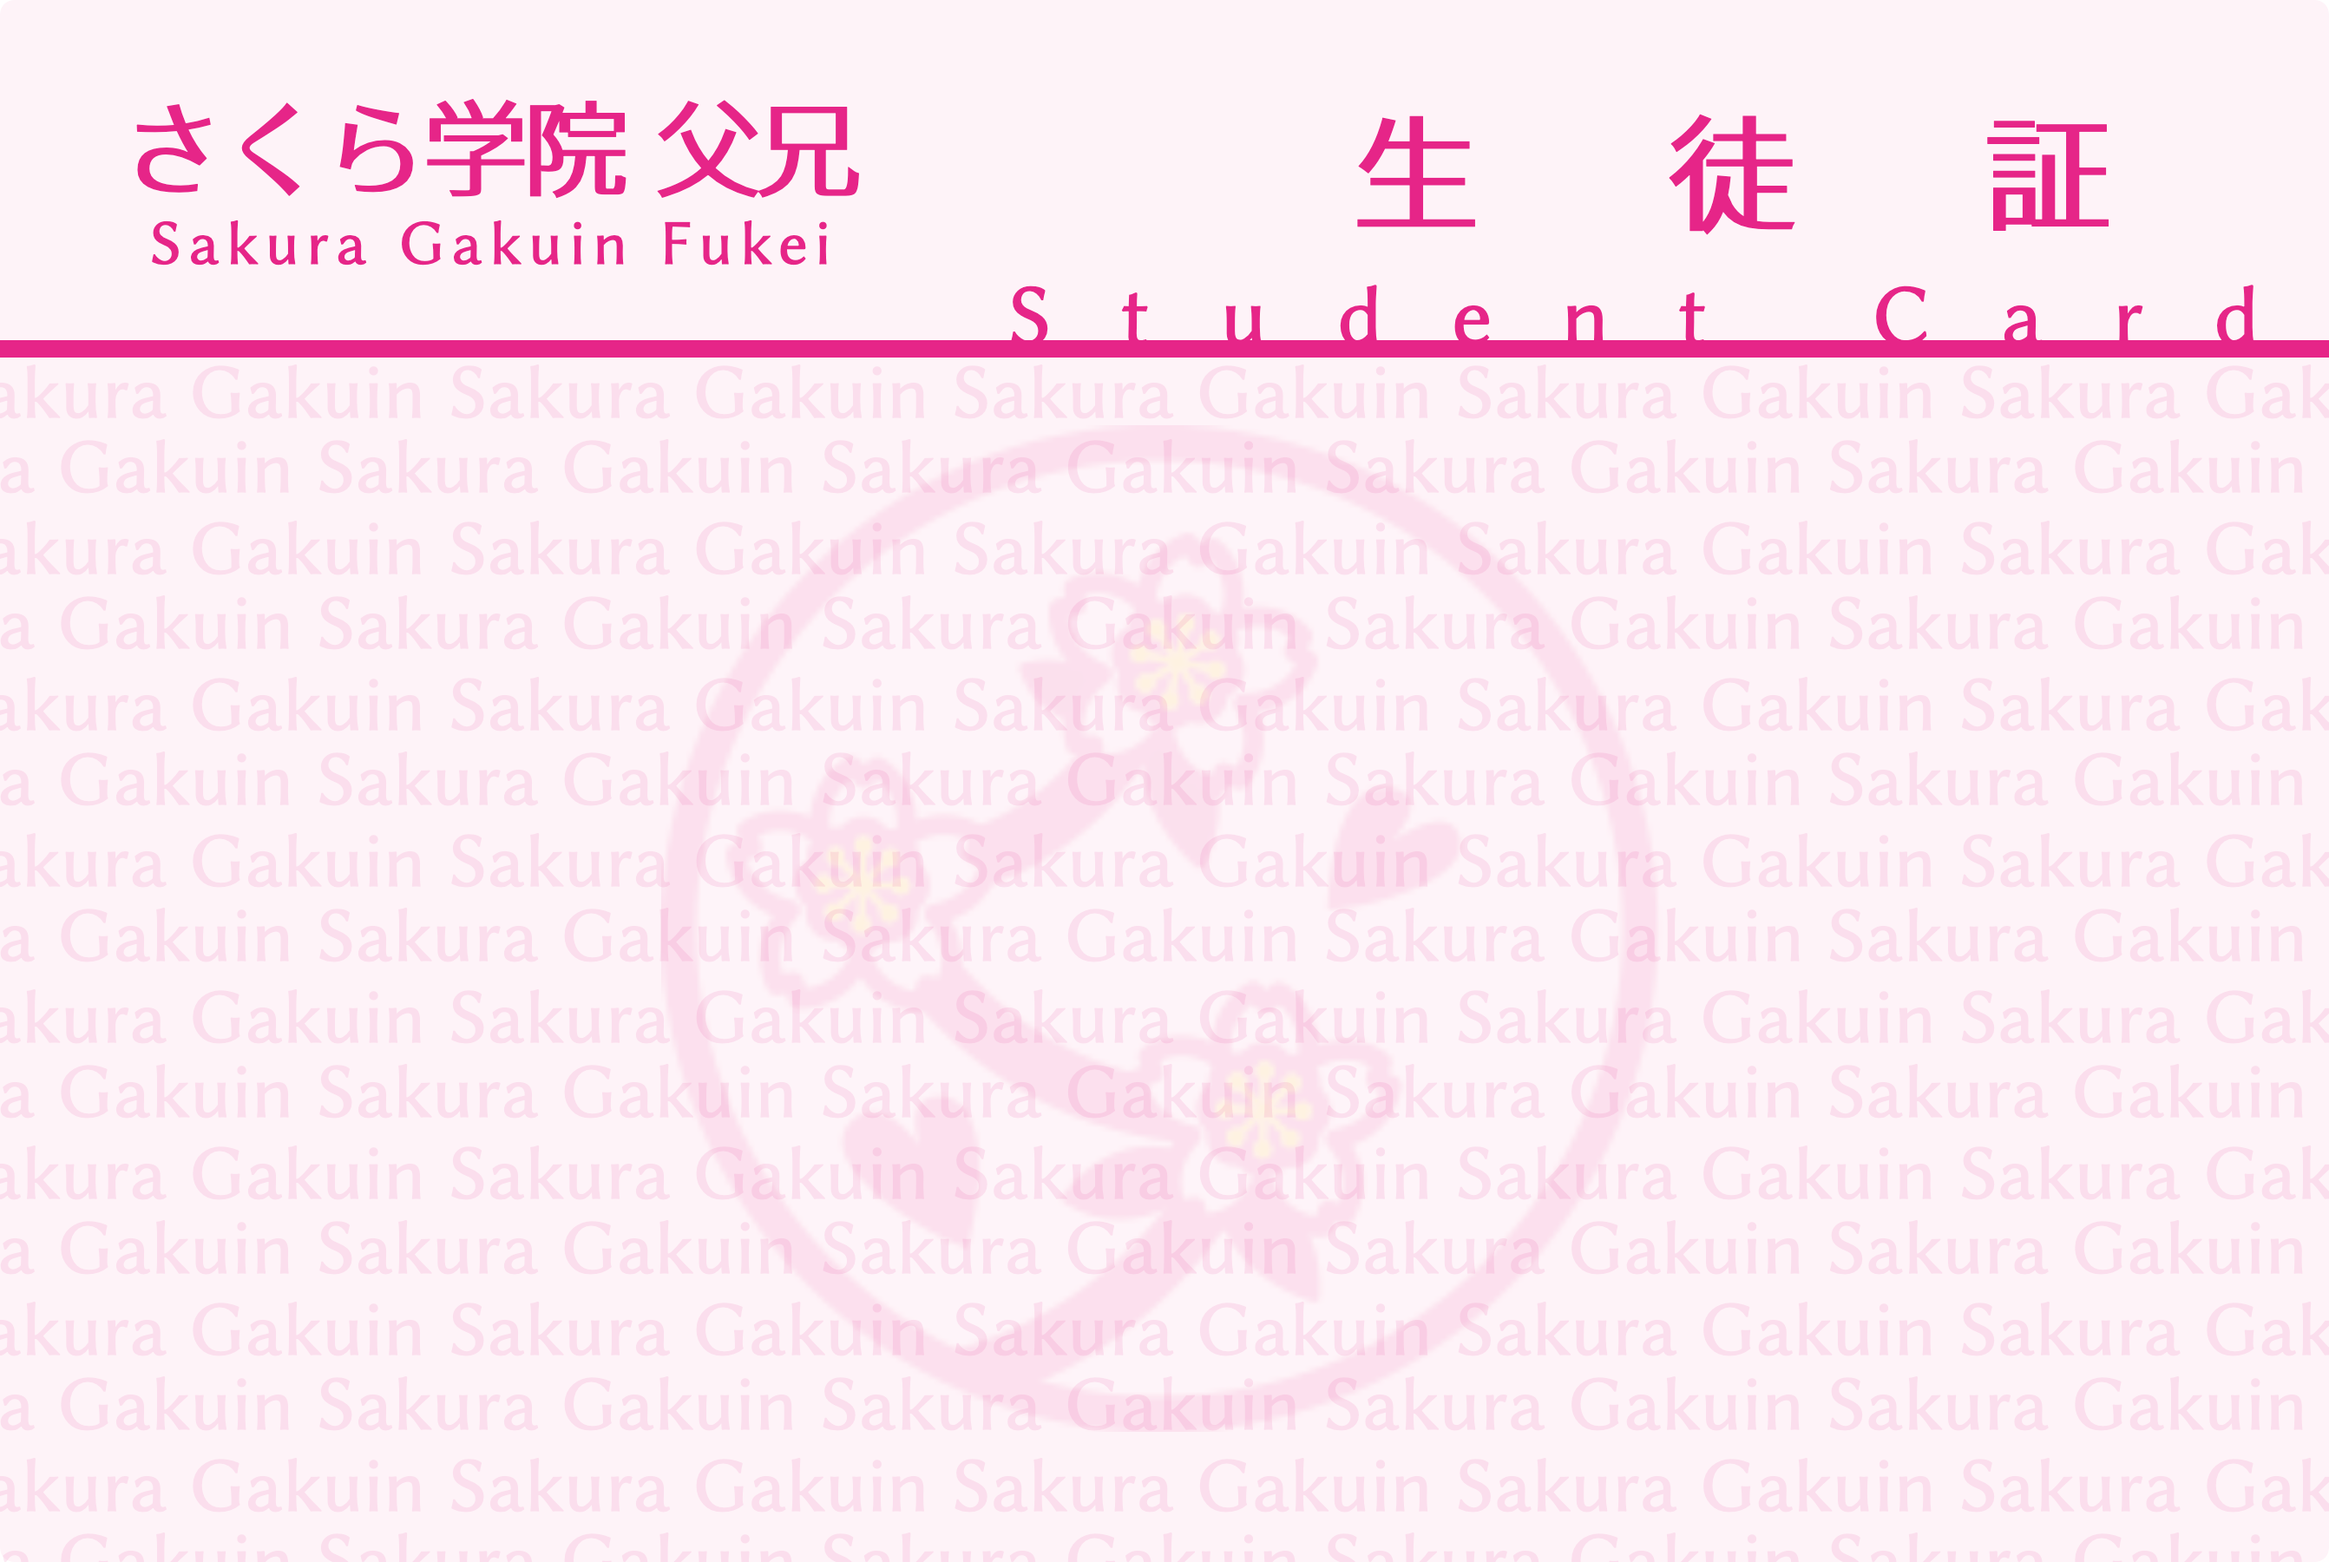
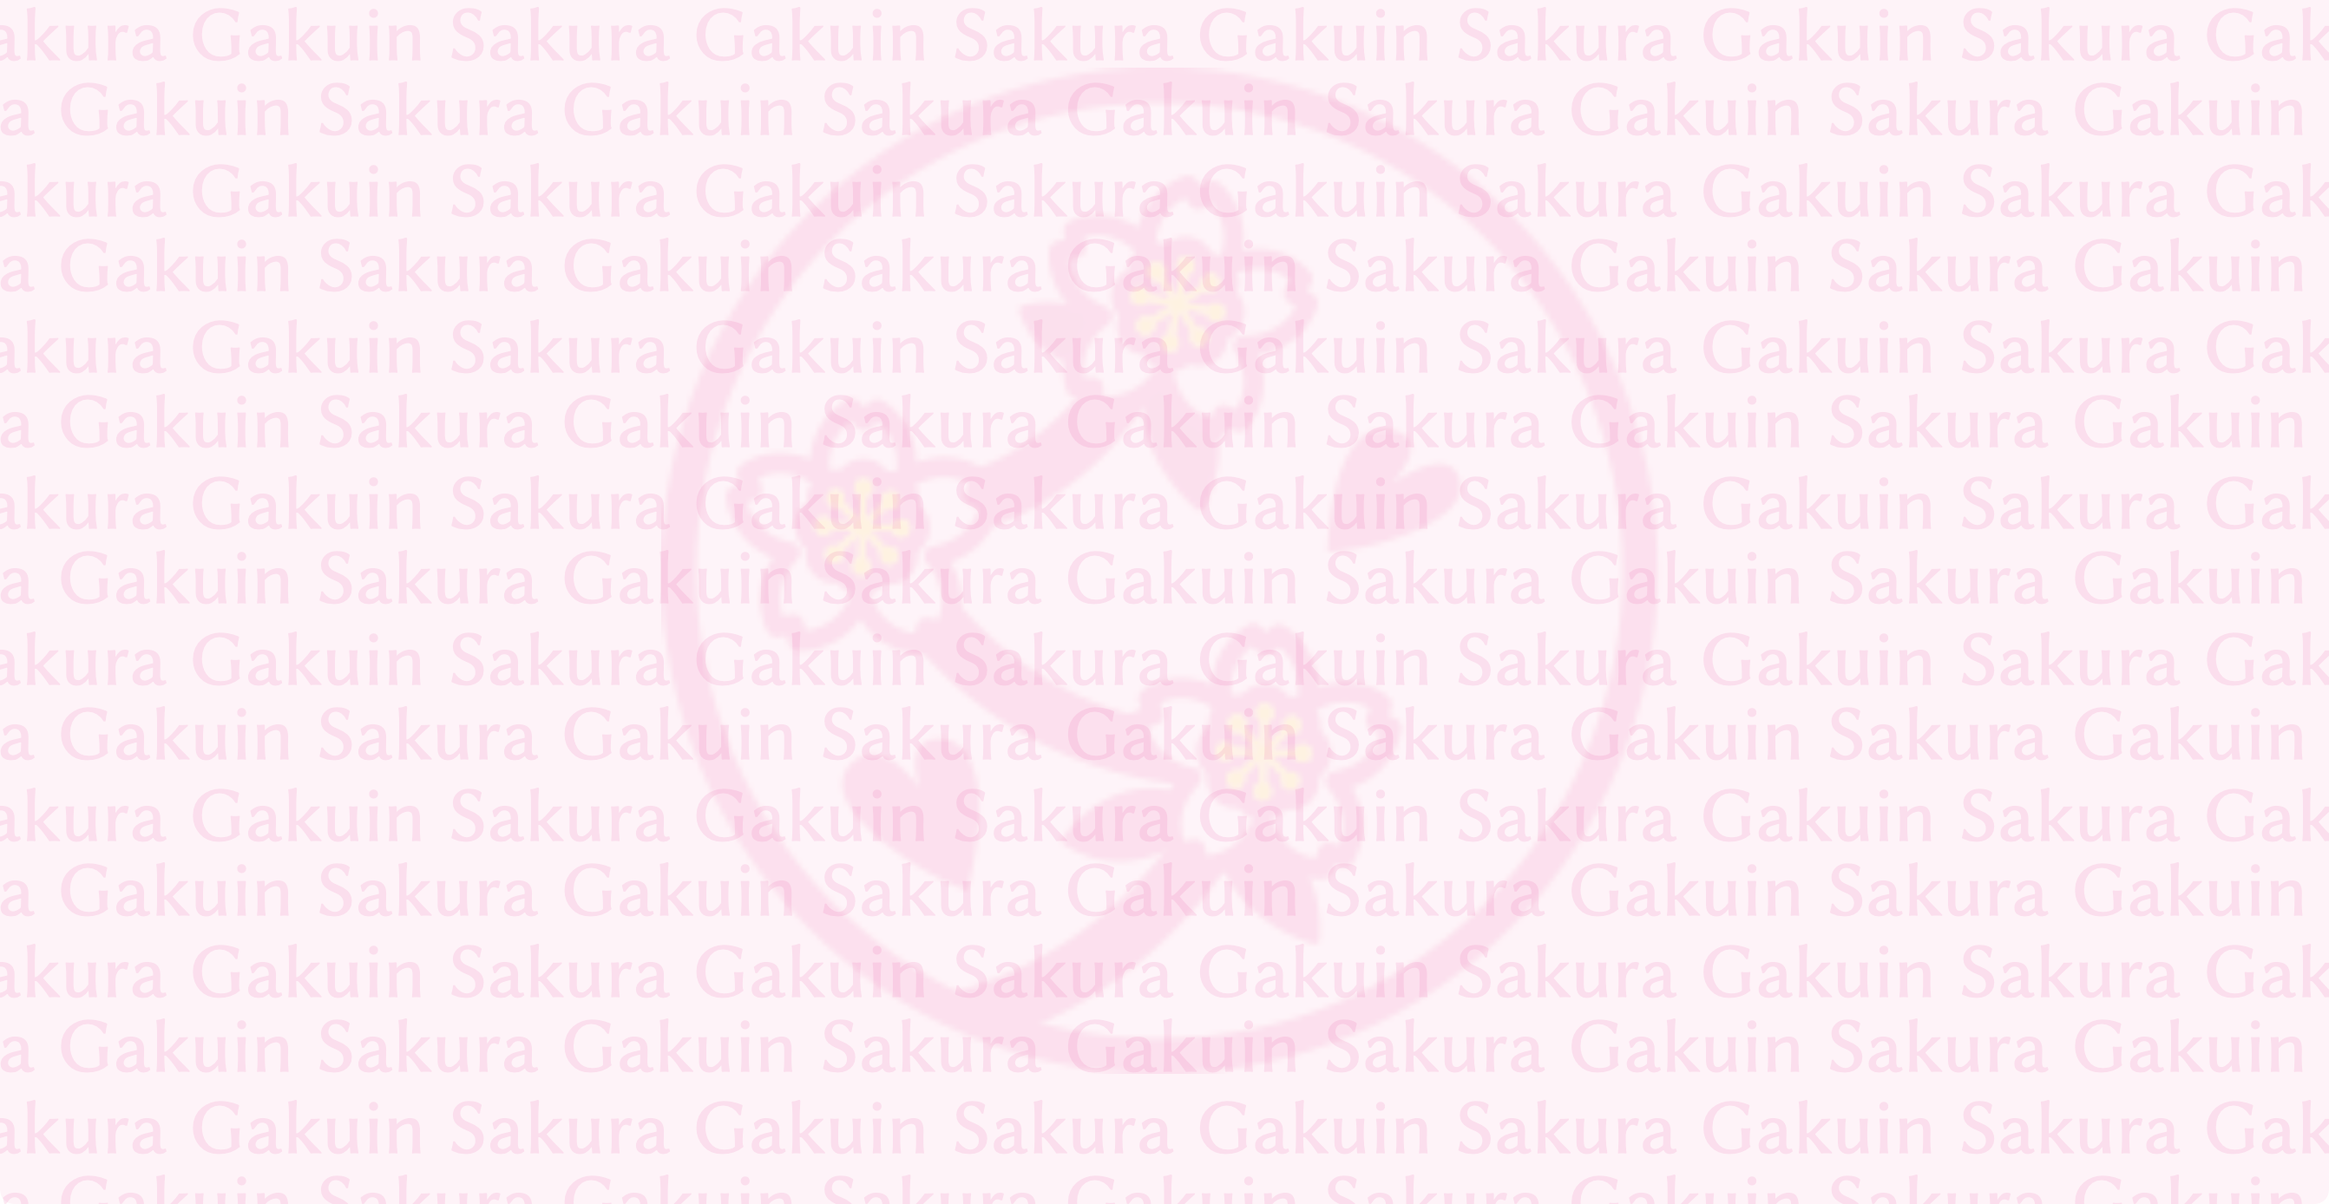
fix CardHeader

diff --git a/src/components/Card.tsx b/src/components/Card.tsx
@@ -1,6 +1,7 @@
 import React from 'react'
 import { makeStyles } from '@material-ui/core/styles'
 
+import CardHeader from 'components/CardHeader'
 import CardBody from 'components/CardBody'
 
 const pink = '#E62588'
@@ -9,8 +10,7 @@ const useStyles = makeStyles({
   root: {
     width: '100%',
     height: '100%',
-    backgroundImage: `url(${process.env.PUBLIC_URL}/background.png)`,
-    backgroundSize: 'cover',
+    backgroundColor: '#FEF3F8',
     borderRadius: 8,
     color: pink,
   },
@@ -20,6 +20,7 @@ const Card: React.FC = () => {
   const classes = useStyles()
   return (
     <div className={classes.root}>
+      <CardHeader />
       <CardBody />
     </div>
   )

diff --git a/src/components/CardBody.tsx b/src/components/CardBody.tsx
@@ -6,9 +6,11 @@ import { Store } from 'Store'
 const useStyles = makeStyles({
   body: {
     width: '100%',
-    height: 690,
+    height: 694,
     display: 'flex',
-    paddingTop: 202,
+    backgroundImage: `url(${process.env.PUBLIC_URL}/background.png)`,
+    backgroundSize: 'cover',
+    marginTop: 2,
   },
   left: {
     width: 470,
